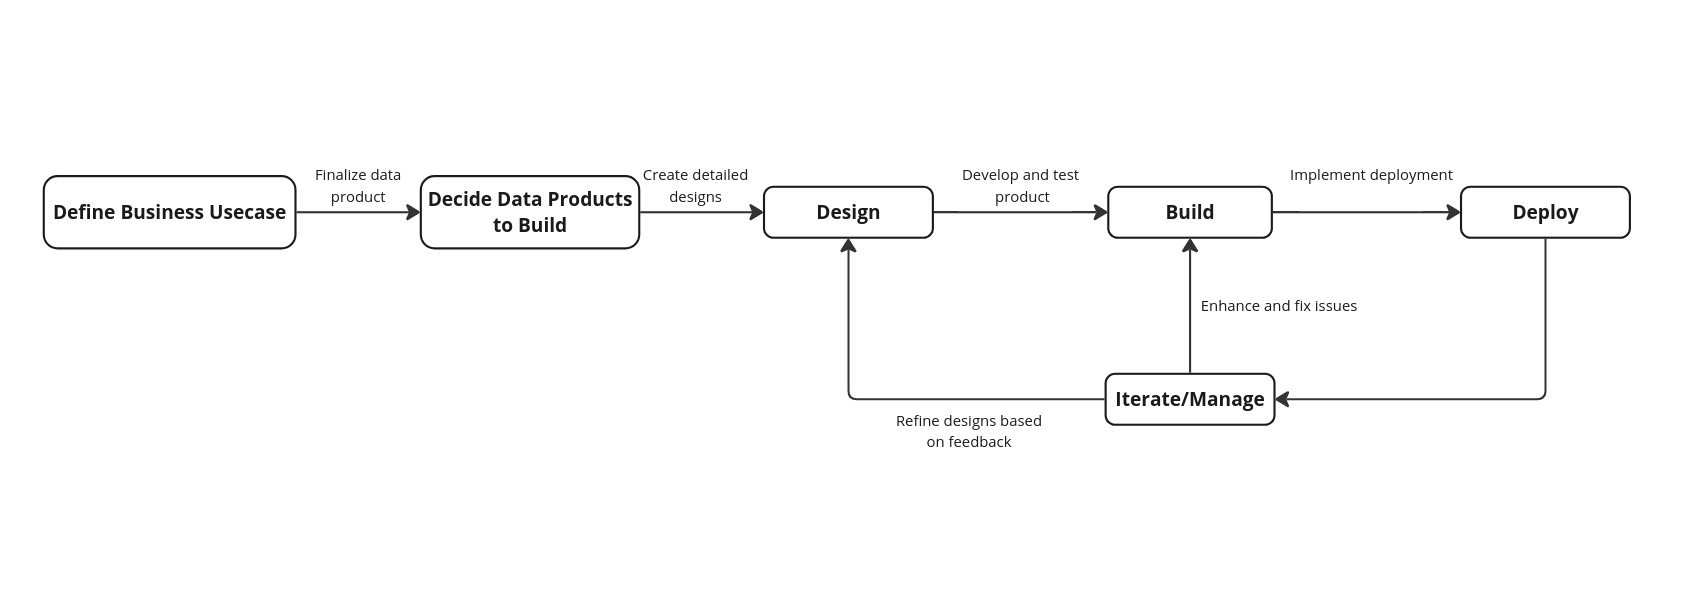
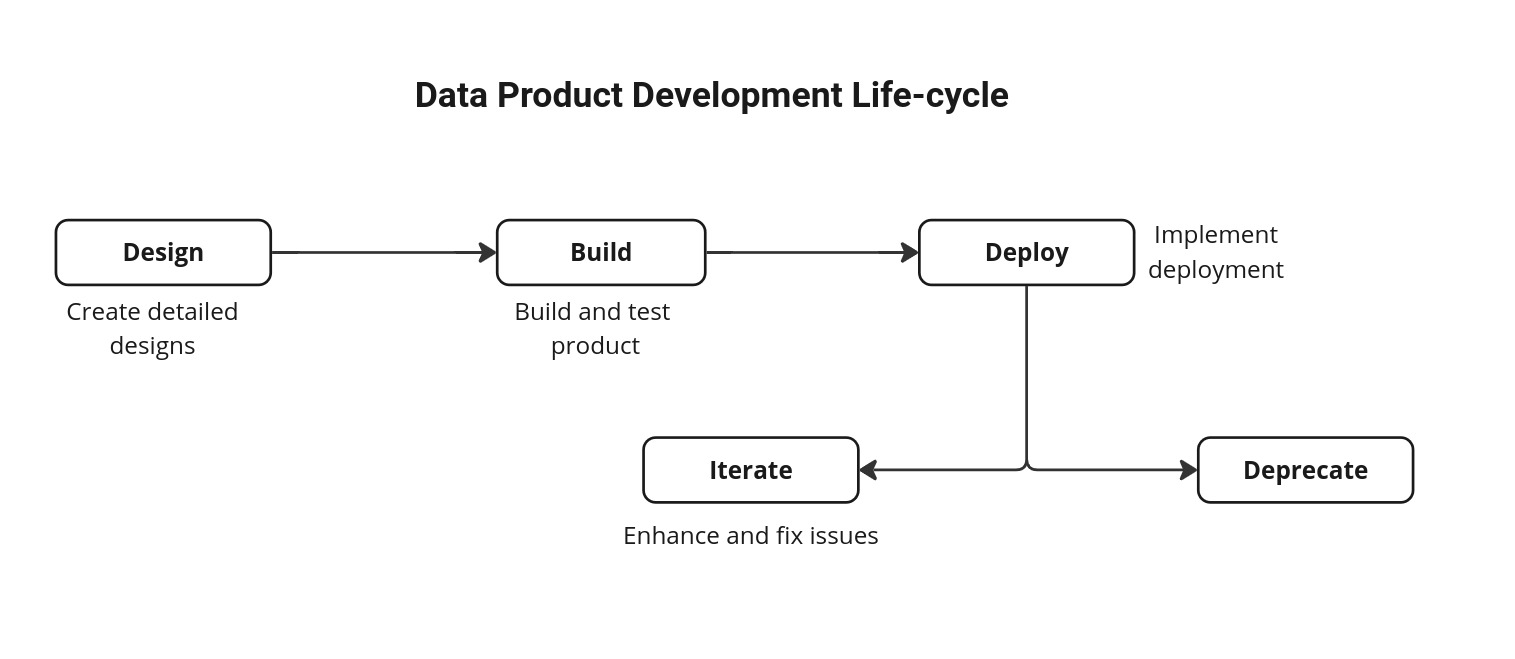
updated Data Product doc

diff --git a/docs/products/data_product/how_to_guides/build.md b/docs/products/data_product/how_to_guides/build.md
@@ -1,6 +1,6 @@
 # How to build a Data Product?
 
-Data Product is build by the Data Product Developers. This section involves the building phase of the Data Product right from data connection to defining SLOs. DataOS provides flexible ways to build the data product. You can create the data product from scratch or reuse the existing one as per requirements. You can explore the data products in the Data Products Hub, an interface that lists all the existing data product information.
+Data Product is build by the Data Product Developers. This section involves the building phase of the Data Product right from data connection to defining SLOs. DataOS provides flexible ways to build the data product. You can create the Data Product from scratch or reuse the existing one as per requirements. You can explore the Data Products in the [Data Product Hub](/interfaces/data_product_hub/), an interface that lists all the existing data product information.
 
 Let’s see the steps for building a Data Product:
 
@@ -15,7 +15,7 @@ Before proceeding with the Data Product creation, ensure that you have the neces
 
 ## Steps to Create a Data Product
 
-From the design phase, it is clear which DataOS resources we require to build the Data Product, and these are Instance Secret, Depot, Cluster, Scanner, Flare, Policy, SODA Checks, Monitor, Pager, and Bundle. Let’s see how to create each one step by step. As we already created the depot and ran the depot scanner, we’ll directly jump into the data transformation step using Flare.
+From the design phase, it is clear which DataOS resources we require to build the Data Product, and these are [Instance Secret](/resources/instance_secret/), [Depot](/resources/depot/), [Cluster](/resources/cluster/), [Scanner](/resources/stack/), [Flare](/resources/stack/), [Policy](/resources/policy/), [SODA Checks](/resources/stack/), [Monitor](/resources/monitor/), [Pager](/resources/pager/), and [Bundle](/resources/bundle/). Let’s see how to create each one step by step. As we already created the depot and ran the depot scanner, we’ll directly jump into the data transformation step using Flare.
 
 <aside class="callout">
 🗣 Depending upon the use case more resources can be added or removed, to know more about the DataOS resources refer to <a href="https://dataos.info/resources/">DataOS Resources</a>.
@@ -24,7 +24,7 @@ From the design phase, it is clear which DataOS resources we require to build th
 
 ### **Create the Flare Job for data transformation**
 
-Flare is a stack orchestrated by the Workflow that abstracts Apache Spark for large-scale data processing, including ingestion, transformation, enrichment, profiling, quality assessment, and syndication for both batch and streaming data.
+[Flare](/resources/stack/) is a stack orchestrated by the [Workflow](/resources/workflow/) that abstracts Apache Spark for large-scale data processing, including ingestion, transformation, enrichment, profiling, quality assessment, and syndication for both batch and streaming data.
 
 Let’s see how you can utilize Flare for various transformations, we are taking the same example of Google Analytics here, to ingest raw data as is from S3, with the only transformation being the conversion of the date column to date_time since it's initially in varchar format.
 
@@ -126,7 +126,7 @@ Note that the above provided manifest file is just an example of how you can cre
 
 ### **Create the Monitor for observability**
 
-The Monitor Resource in DataOS's Observability System triggers incidents based on events or metrics alongside the [Pager](https://dataos.info/resources/pager/) Resource, enabling comprehensive observability and proactive incident management for high system reliability and performance.
+The [Monitor Resource](/resources/monitor/) in DataOS's Observability System triggers incidents based on events or metrics alongside the [Pager](/resources/pager/) Resource, enabling comprehensive observability and proactive incident management for high system reliability and performance.
 
 Let’s see how you can set up the monitor for workflow status.
 
@@ -272,10 +272,6 @@ After executing the above command, all the resources will be applied per the dep
 
 To learn more about the bundle, [refer to this](https://dataos.info/resources/bundle/).
 
-<aside>
-<img src="/icons/info-alternate_green.svg" alt="/icons/info-alternate_green.svg" width="40px" /> After this step, you can now utilize the output data for further analysis to gain insights.
-
-</aside>
 
 ### **Create a Policy to secure the data**
 
@@ -377,6 +373,7 @@ v1alpha: # Data Product version
 ```
 
 The manifest file of a Data Product can be broken down into two sections: 
+
 1. Product Meta section
 2. Data Product-specific section 
 
@@ -406,7 +403,7 @@ refs: # Reference (optional)
 entity: {{product}} # Entity (Mandatory)
 ```
 
-For more information about the various attributes in the Product meta section, refer to the [Attributes of Product meta section](/products/configurations/).
+For more information about the various attributes in the Product meta section, refer to the [Attributes of Product meta section](/products/data_product/configuration/).
 
 **Data Product-specific section**
 
@@ -437,7 +434,7 @@ v1alpha: # Data Product version
         ref: dataos://icebase:google_analytics/ga_sessions_daily_data_raw             
 ```
 
-For more information about the various attributes in the Data Product-specific section, refer to the [Attributes of Data Product-Specific section](/products/data_product/how_to_guides/configurations/).
+For more information about the various attributes in the Data Product-specific section, refer to the [Attributes of Data Product-Specific section](/products/data_product/configuration/).
 
 ### **Apply the Data Product manifest file**
 

diff --git a/docs/products/data_product/how_to_guides/design.md b/docs/products/data_product/how_to_guides/design.md
@@ -9,7 +9,7 @@ In this step, we identify various data sources based on usecase. For instance, i
 
 ## Data Understanding and Exploration
 
-To understand the data, you need to set up the data source connection to S3 using Instance Secret and Depot. Let’s see how can you set the data source connection using the Depot for S3. This step is depends on the Data Source.
+To understand the data, you need to set up the data source connection to S3 using [Instance Secret](/resources/instance_secret/) and [Depot](/resources/depot/). Let’s see how can you set the data source connection using the [Depot](/resources/depot/) for S3. This step is depends on the Data Source.
 
 <aside class="callout">
 
@@ -19,7 +19,7 @@ To understand the data, you need to set up the data source connection to S3 usin
 
 ### **Create an Instance Secret**
 
-To create a Depot without revealing the data source connection credentials, you first need to create an Instance-Secret resource which will hold credentials of the S3 source such as accesskeyid, awsaccesskeyid, awssecretaccesskey and secretkey. To create an Intsnace Secret simply compose a manifest file as shown below.
+To create a [Depot](/resources/depot/) without revealing the data source connection credentials, you first need to create an [Instance Secret](/resources/instance_secret/) resource which will hold credentials of the S3 source such as accesskeyid, awsaccesskeyid, awssecretaccesskey and secretkey. To create an [Instance Secret](/resources/instance_secret/) simply compose a manifest file as shown below.
 
 ```yaml
 name: s3depot-r 
@@ -70,7 +70,7 @@ replace the placeholder with the actual values and apply it using the following 
 dataos-ctl apply -f ${{yamlfilepath}}
 ```
 
-To know more about the Depot [refer to this](https://dataos.info/resources/depot/#apply-depot-yaml).
+To know more about the Depot [refer to this](https://dataos.info/resources/depot/).
 
 ### **Extract the Metadata**
 
@@ -189,28 +189,8 @@ To know more about Workbench, [refer to this](https://dataos.info/interfaces/wor
 
 Once you've explored the data, the next step is to plan the architectural design. This involves mapping out how different components, data pipelines, and workflows will integrate. The architecture design should be well-documented with diagrams and clear explanations of how each component interacts and the workflows they support. For data transformation tasks, tools like Flare jobs, SLOs (Service Level Objectives), and UI (User Interface) elements can be utilized to ensure efficient processing and visualization of data insights.
 
-```markdown
-+-------------------------+                                     +-------------------+
-|                         |                                     |                   |
-|      Data Sources       +                                     |    Analytical     |
-|     (Google Analytics,  |                                     |    platforms      |
-|      Adobe Analytics,   |                                     |                   |
-|           etc.)         |                                     |                   |
-+-----------+-------------+                                     +---------+---------+
-            |                                                             ^
-            |                                                             |
-            |                                                             |
-            |                                                             |
-            v                                                             |
-+-----------+-------------+      +-----------+-----------+      +---------+---------+
-|                         |      |                       |      |                   |
-|         Depot           +----->+     Workflow, Worker, +----->+   Service Level   |
-|    (Data Connection)    |      |         Service       |      |    Objectives     |
-+-------------------------+      | (Data Transformation) |      | (Quality Checks,  |
-                                 +-----------------------+      |  Policy, Monitor, |
-                                                                |  Pager)           |
-                                                                +-------------------+
-```
+<img src="/products/data_product/how_to_guides/flow.jpg" alt="Description" width="1500">
+
 
 For this particular example, the architectural design phase will also include the analytical elements and features that need to be included in the Traffic Source analysis. You can also define the input and output location in this step itself.
 
@@ -222,4 +202,4 @@ Performance targets refer to predefined goals or benchmarks related to the data 
 
 Once the Data Product design is finalized, it undergoes review sessions with key stakeholders and team members to ensure it meets all defined requirements and goals. Feedback from these sessions is carefully documented. If needed, the design is refined based on this feedback to improve its alignment with requirements. All changes made during this process are noted to ensure continuous improvement of the design phase.
 
-Once the design meets the requirements, the next phase involves building the Data Product.
+Once the design meets the requirements, the next phase involves [building the Data Product](/products/data_product/how_to_guides/build/).

diff --git a/docs/products/data_product/how_to_guides/iterate.md b/docs/products/data_product/how_to_guides/iterate.md
@@ -1,0 +1,22 @@
+# How to iterate the Data Product?
+
+After successfully deploying the Data Product, it’s time to observe the results if the Data Product incorporates with your use-case or not, If the Data Product does not match the goal then you can iterate the process until your goal is achieved. 
+
+## Iterate the Data Product
+Iterating a Data Product involves refining and enhancing it based on feedback, performance metrics, and evolving business requirements. If you need to iterate your Data Product based on feedback from data consumers, follow these steps:
+
+- **Collect Feedback:** Gather feedback from users and stakeholders regarding the Data Product's performance, usability, and effectiveness in solving the intended problem.
+
+- **Analyze Feedback:** Identify common issues and suggestions for improvements. Prioritize these based on impact and feasibility.
+
+- **Plan Iteration:** Define the scope of changes needed to address the feedback. Create a plan that includes tasks, timelines, and resources required for the iteration.
+
+- **Implement Changes:** Update the Data Product according to the iteration plan. This might involve modifying data sources, transformation logic, data models, or visualization techniques.
+
+- **Validate Changes:** Ensure that the changes meet the intended goals and do not introduce new issues. Validate the updated Data Product through testing and user acceptance.
+
+- **Deploy Updated Product:** Deploy the updated Data Product to the production environment.
+
+- **Monitor and Iterate Again:** After deployment, monitor the Data Product's performance and continue to collect feedback. Iterate the process as needed to achieve the desired results.
+
+By following these steps, you can continuously improve your Data Product to better meet user needs and business objectives.

diff --git a/docs/products/data_product/index.md b/docs/products/data_product/index.md
@@ -17,7 +17,7 @@ sharing, data monetization, analytics and application integration.
 
 > &nbsp;&nbsp;&nbsp;&nbsp;&nbsp;&nbsp;&nbsp;&nbsp;&nbsp;&nbsp;&nbsp;&nbsp;&nbsp;&nbsp;&nbsp;&nbsp;&nbsp;&nbsp;&nbsp;&nbsp;&nbsp;&nbsp;&nbsp;&nbsp;&nbsp;&nbsp;&nbsp;&nbsp;&nbsp;&nbsp;&nbsp;&nbsp;&nbsp;&nbsp;&nbsp;&nbsp;&nbsp;&nbsp;&nbsp;&nbsp;&nbsp;&nbsp;&nbsp;&nbsp;&nbsp;&nbsp;&nbsp;&nbsp;&nbsp;&nbsp;&nbsp;&nbsp;&nbsp;&nbsp;&nbsp;&nbsp;&nbsp;&nbsp;&nbsp;&nbsp;&nbsp;&nbsp;&nbsp;&nbsp;&nbsp;&nbsp;&nbsp;&nbsp;&nbsp;&nbsp;&nbsp;&nbsp;&nbsp;&nbsp;&nbsp;&nbsp;&nbsp;&nbsp;&nbsp;&nbsp;&nbsp;&nbsp;&nbsp;&nbsp;&nbsp;&nbsp;&nbsp;&nbsp;&nbsp;&nbsp;&nbsp;&nbsp;&nbsp;&nbsp;&nbsp;&nbsp;&nbsp;&nbsp;&nbsp;&nbsp;&nbsp;&nbsp;&nbsp;&nbsp;&nbsp;&nbsp;&nbsp;&nbsp;&nbsp;&nbsp;&nbsp;&nbsp;&nbsp;&nbsp;&nbsp;&nbsp;&nbsp;&nbsp;&nbsp;&nbsp;&nbsp;&nbsp;&nbsp;&nbsp;&nbsp;&nbsp;&nbsp;&nbsp;&nbsp;&nbsp;&nbsp;&nbsp;&nbsp;&nbsp;&nbsp; **-** Gartner<sup>&reg;</sup><span class="circle"></span>
 
-<img src="/products/data_product/Untitled.jpg" alt="Description" width="1500">
+<img src="/products/data_product/diagram.jpg" alt="Description" width="1500">
 
 <div class="grid cards" markdown>
 
@@ -155,8 +155,7 @@ Below are some recipes to help you configure Data Product effectively:
 
 Below are some templates to help you to design the Data Product:
 
-- [Customer 360 Data Product](/products/data_product/templates/customer/)
+- [Financial Services Accelerator Data Product](/products/data_product/templates/accelerator/)
 
 - [Sales 360 Data Product](/products/data_product/templates/sales_360/)
 
-- [FS Accelerator Data Product](/products/data_product/templates/accelerator/)

diff --git a/docs/products/data_product/how_to_guides/deploy.md b/docs/products/data_product/how_to_guides/deploy.md
@@ -1,6 +1,6 @@
 # How to deploy the Data Product?
 
-You might have successfully created the data product, but in order to make it discoverable on Metis and Data Product Hub you have to run the Scanner. To deploy your Data Product to the Data Product hub and Metis, you have to create a manifest file for a Data Product Scanner Workflow. You can find the manifest file below.
+You might have successfully created the data product, but in order to make it discoverable on [Metis](/interfaces/metis/) and [Data Product Hub](/interfaces/data_product_hub/), you have to run the [Scanner](/resources/stack/). To deploy your Data Product to the Data Product hub and Metis, you have to create a manifest file for a Data Product Scanner Workflow. You can find the manifest file below.
 
 **Data Product scanner workflow manifest**
     
@@ -47,8 +47,6 @@ dataos-ctl resource apply -f ${path-to-your-scanner-manifest-file}
 After executing the above command successfully you’ll be able to search for your Data Product on [Metis UI](https://dataos.info/interfaces/metis/) and Data Product Hub UI. To learn more about the Scanner Workflow, go to [Scanner](https://dataos.info/resources/stacks/scanner/).
 
 After successfully deploying the Data Product, it’s time to observe the results if the Data Product incorporates with your use-case or not, If the Data Product does not match the goal then you can iterate the process until your goal is achieved. 
-
-## Manage the Data Product
 
 ### **Validate the Data Product**
 

diff --git a/docs/products/data_product/recipes/cookiecutter.md b/docs/products/data_product/recipes/cookiecutter.md
@@ -10,7 +10,9 @@ This section outlines the steps to create a foundational template for a data pro
 
 ## **Prerequisites**
 
-Before proceeding, ensure you have access to https://bitbucket.org/tmdc/dp-repo-template-v2/src/master/ and the [necessary tags or use cases](https://www.notion.so/Data-Product-Documentation-WIP-58fa3e4494fa4f7ba5e2115876e0b797?pvs=21).
+- It is assumed that you possess a basic understanding of Bitbucket.
+
+- Before proceeding, ensure you have access to [Bitbucket Repository](https://bitbucket.org/tmdc/dp-repo-template-v2/src/master/) and the [necessary tags or use cases](https://www.notion.so/Data-Product-Documentation-WIP-58fa3e4494fa4f7ba5e2115876e0b797?pvs=21).
 
 ## **Steps to Create the Data Product Template**
 
@@ -87,4 +89,4 @@ Follow these steps to create the Data Product template:
 10. **Verify Changes**:
     - Verify that all changes are reflected in your Bitbucket repository.
 
-By following these steps, you'll have successfully created a data product template in your Bitbucket repository. This template can now be customized and further developed according to the requirements and can be deployed using the CI/CD pipeline.
+By following these steps, you'll have a successfully created Data Product template in your Bitbucket repository. This template can now be customized and further developed according to the requirements and can be deployed using the CI/CD pipeline.

diff --git a/docs/products/data_product/templates/accelerator.md b/docs/products/data_product/templates/accelerator.md
@@ -1,4 +1,4 @@
-# FS Accelerator Data Product
+# Financial Services Accelerator Data Product
 
 Financial Services Accelerator is an entity-first Data Product designed to provide a unified and persistent set of identifiers and attributes that describe customers within the financial services domain. This data product aims to seamlessly connect customer data, product data, and transaction data across various organizational silos and business units. It is a master dataset continuously updated in real-time, ensuring accuracy and reliability. The steps required to develop this Data Product are given below. 
 
@@ -1416,7 +1416,7 @@ We have implemented the Flare stack, orchestrated by Workflow, to perform qualit
 
 ## Deploy
 
-Having developed the Data Product, we must make it accessible to various Data Product personas for management and consumption on the Data Product Hub. Below is the manifest file for the FS Accelerator Data Product.
+Having developed the Data Product, we must make it accessible to various Data Product personas for management and consumption on the Data Product Hub and Metis. Below is the manifest file for the FS Accelerator Data Product.
 
 ```yaml
 

diff --git a/docs/products/data_product/how_to_guides/configurations.md b/docs/products/data_product/how_to_guides/configurations.md
@@ -1,4 +1,4 @@
-# Data Product-specific configuration
+# Data Product manifest file configuration
 
 The following attributes are declared for every Data Product deployed in a DataOS context. Some of these attributes/fields need to be mandatorily declared, while others are optional.
 
